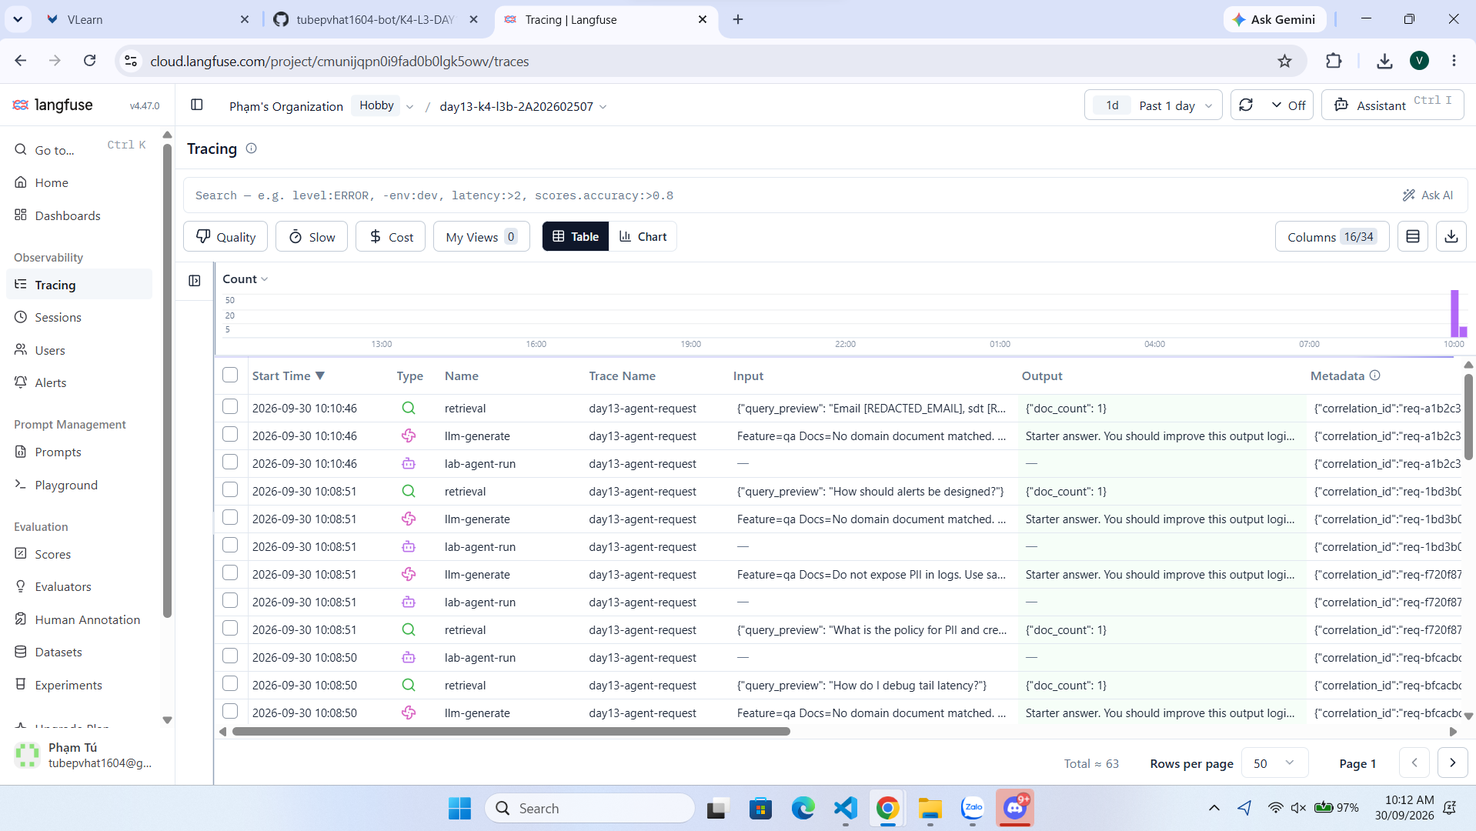
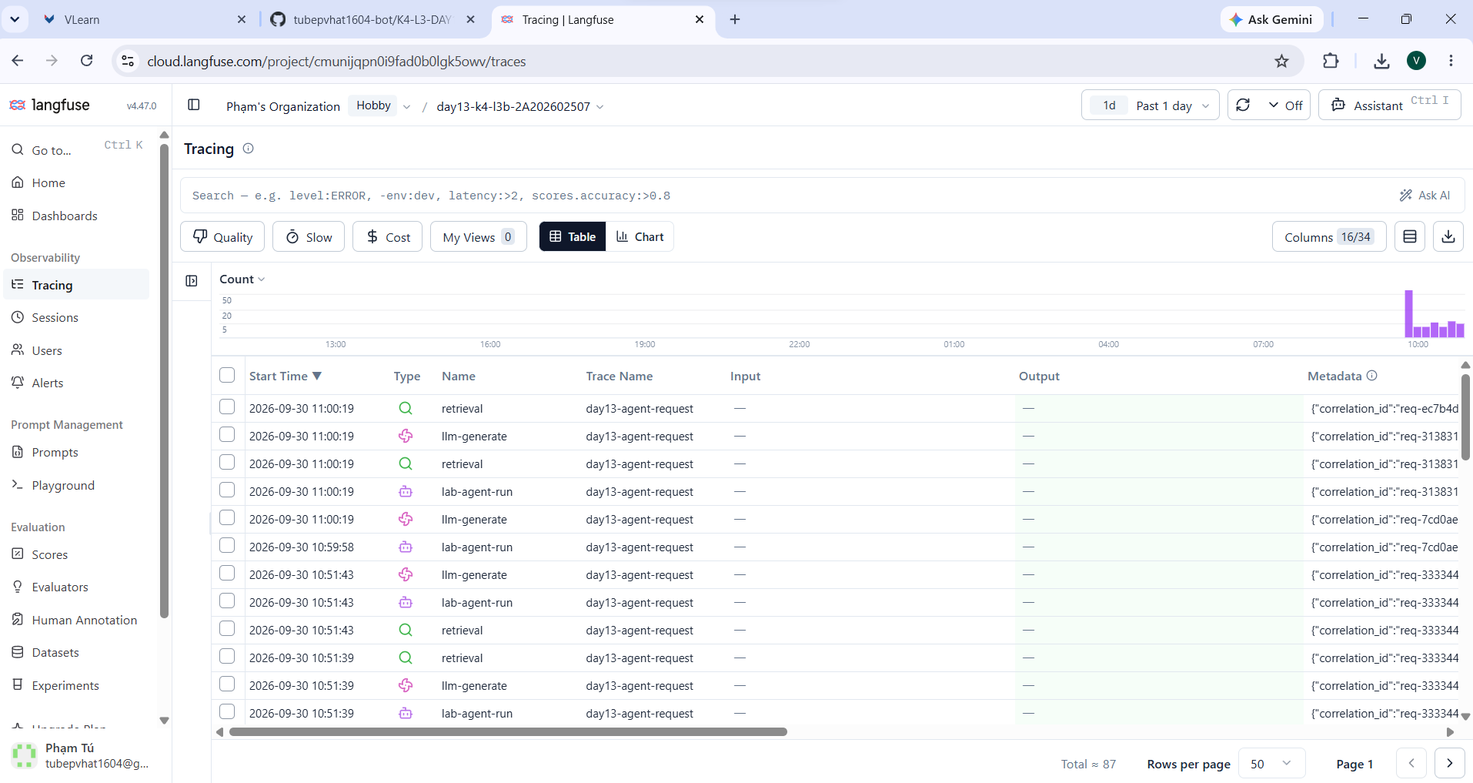
Evidence, challenge investigation, report

diff --git a/submission/REPORT.md b/submission/REPORT.md
@@ -1,106 +1,103 @@
 # Báo cáo cá nhân — K4-L3B Day 13 Monitoring & LLMOps
 
-> Mỗi học viên hoàn thiện một file duy nhất này. Khi dẫn evidence, dùng đường dẫn tương đối, ví dụ `evidence/07-trace-waterfall.png`.
+> Mọi đường dẫn evidence là đường dẫn tương đối từ thư mục `submission/`.
 
 ## 1. Thông tin học viên
 
 - **Họ và tên:** Phạm Văn Hoàng Anh Tú
 - **MSSV:** 2A202602507
 - **Lớp:** K4-L3B
-- **Repository URL:** <!-- ĐIỀN: URL repo GitHub cá nhân -->
-- **Commit SHA cuối:** <!-- ĐIỀN: chạy `git log -1 --format=%H` sau commit cuối -->
-- **Challenge ID:** <!-- ĐIỀN sau khi Lab Coach gửi config/challenge.json ở CP3 -->
+- **Repository URL:** https://github.com/tubepvhat1604-bot/K4-L3-DAY13-PhamVanHoangAnhTu-2A202602507-Monitoring-LLMOps <!-- KIỂM TRA lại URL -->
+- **Commit SHA cuối:** <!-- ĐIỀN: git log -1 --format=%H -->
+- **Challenge ID:** `day13-k4-l3b-monitoring-llmops-v1` (incident `rag_slow`, affected feature `monitoring`, seed 1312, ngưỡng 2000 ms)
 - **Tên project Langfuse cá nhân:** `day13-k4-l3b-2A202602507`
 
 ## 2. Evidence index
 
-Điền đúng đường dẫn tới evidence thực tế. Có thể đổi tên hoặc dùng nhiều ảnh nếu cần.
-
 | Evidence | Đường dẫn |
 |---|---|
-| Pytest cuối | `evidence/01-pytest.txt` |
-| Log validator | `evidence/02-log-validator.txt` (baseline: `evidence/00-baseline-log-validator.txt`) |
-| Dashboard validator | `evidence/03-dashboard-validator.txt` |
-| Structured log | `evidence/04-structured-log.txt` |
-| PII redaction | `evidence/05-pii-redaction.txt` |
-| Trace list | `evidence/06-trace-list.png` |
-| Trace waterfall | `evidence/07-trace-waterfall.png` |
-| Trace metadata | `evidence/08-trace-metadata.png` |
-| Prompt versions | `evidence/09-prompt-versions.png` |
-| Prompt rollback | `evidence/10-prompt-rollback.png` |
-| Dashboard runtime | `evidence/11-dashboard-overview.png` |
-| Incident metric | `evidence/12-incident-metric.png` |
-| Incident log | `evidence/13-incident-log.png` |
-| Incident trace | `evidence/14-incident-trace.png` |
+| Pytest cuối | [evidence/01-pytest.png](evidence/01-pytest.png) |
+| Log validator | [evidence/02-log-validator.png](evidence/02-log-validator.png) (baseline 30/100, xem mục 3) |
+| Dashboard validator | [evidence/03-dashboard-validator.png](evidence/03-dashboard-validator.png) |
+| Structured log | [evidence/04-structured-log.png](evidence/04-structured-log.png) |
+| PII redaction | [evidence/05-pii-redaction.png](evidence/05-pii-redaction.png) |
+| Trace list | [evidence/06-trace-list.png](evidence/06-trace-list.png) |
+| Trace waterfall | [evidence/07-trace-waterfall.png](evidence/07-trace-waterfall.png) |
+| Trace metadata | [evidence/08a-trace-metadata-root.png](evidence/08a-trace-metadata-root.png), [evidence/08b-trace-metadata-generation.png](evidence/08b-trace-metadata-generation.png) |
+| Prompt versions | [evidence/09-prompt-versions.png](evidence/09-prompt-versions.png), trace v2: [evidence/09b-trace-v2.png](evidence/09b-trace-v2.png) |
+| Prompt promote / rollback | [evidence/10a-prompt-promote.png](evidence/10a-prompt-promote.png), [evidence/10b-prompt-rollback.png](evidence/10b-prompt-rollback.png) |
+| Dashboard runtime | [evidence/11-dashboard-overview.png](evidence/11-dashboard-overview.png) |
+| Incident metric | [evidence/12-incident-metric.png](evidence/12-incident-metric.png) |
+| Incident log | [evidence/13-incident-log1.png](evidence/13-incident-log1.png) (lọc request chậm), [evidence/13-incident-log2.png](evidence/13-incident-log2.png) (log chi tiết `req-a34983bf`) |
+| Incident trace | [evidence/14-incident-trace.png](evidence/14-incident-trace.png), [evidence/14b-incident-trace-metadata.png](evidence/14b-incident-trace-metadata.png) |
 
 ## 3. Kết quả kỹ thuật
 
 | Nội dung | Baseline | Kết quả cuối | Nhận xét |
 |---|---|---|---|
-| `validate_logs.py` | 30/100 (20/21 record thiếu field, 0 correlation ID hợp lệ, thiếu enrichment) | 100/100 | Xóa `logs.jsonl` cũ trước khi đo lại, vì validator đọc toàn bộ file |
-| `validate_dashboard.py` | 6/6 | 6/6 | Contract đã hợp lệ từ đầu; phần việc thật là dựng dashboard runtime (`scripts/build_dashboard.py`) |
+| `validate_logs.py` | 30/100 (thiếu field, 0 correlation ID, thiếu enrichment) | 100/100 | Chuyển `logs.jsonl` cũ ra ngoài repo trước khi đo lại vì validator đọc toàn bộ file |
+| `validate_dashboard.py` | 6/6 | 6/6 | Contract hợp lệ từ đầu; phần việc thật là dashboard runtime (`scripts/build_dashboard.py`) |
 | `pytest` | 22 passed | 36 passed | Thêm test PII, header/context, child observation, alert/SLO |
-| Số traces hợp lệ | 0 | <!-- ĐIỀN: ≥10, đếm trong Langfuse --> | Cần chạy workload với key Langfuse cá nhân |
-| Số PII leak | 0 trên workload mẫu (baseline chưa gửi PII thật ra file vì mẫu 1 chỉ chứa email; xem 05) | 0, kể cả với input có email + SĐT + CCCD + thẻ | Kiểm tra bằng `grep` trên `data/logs.jsonl` |
-| Latency P95 / TTFT P95 | ~155 ms / 50 ms | ~156 ms / 50 ms | Workload mẫu, fake LLM (sleep 50ms + 100ms) |
-| Retrieval success rate | 100% (không có incident) | 100%; 0% khi bật `tool_fail` | Đo bằng `tool_success` trong log |
+| Số traces hợp lệ | 0 | > 10 trong project cá nhân (xem `06`) | Mỗi request = root + 2 child observation |
+| Số PII leak | chưa scrub | 0 | Gửi email + SĐT + CCCD + thẻ, log chỉ còn nhãn `[REDACTED_*]` |
+| Latency P95 / TTFT P95 | ~155 ms / 50 ms | ~155 ms / 50 ms; lúc incident ~2652 ms / 50 ms | Fake LLM: 50 ms tới token đầu + 100 ms |
+| Retrieval success rate | 100% | 100% | `rag_slow` làm chậm chứ không làm lỗi retrieval |
 
 ## 4. Logging và PII
 
-- **Cách tạo/nhận và truyền correlation ID:** `CorrelationIdMiddleware` (`app/middleware.py`) gọi `clear_contextvars()` đầu mỗi request, nhận `x-request-id` nếu khớp regex `^req-[0-9a-f]{8}$` (header sai format bị bỏ qua để tránh log injection), nếu không thì sinh `req-<8 hex>`. ID được `bind_contextvars`, lưu vào `request.state`, trả về qua header `x-request-id` và `x-response-time-ms`, đồng thời đưa vào trace metadata (`correlation_id`).
-- **Các metadata được ghi vào structured log:** `ts`, `level`, `service`, `event`, `correlation_id`, và (bind trong `/chat`) `user_id_hash` (SHA-256 cắt 12 ký tự, không log user_id thô), `session_id`, `feature`, `model`, `env`; cùng `latency_ms`, `ttft_ms`, `tokens_in/out`, `cost_usd`, `quality_score`, `tool_name`, `tool_success` ở `response_sent`.
-- **Cách bảo đảm PII được scrub trước khi ghi:** processor `scrub_event` được đăng ký trong `configure_logging()` **trước** `JsonlFileProcessor` và `JSONRenderer`, nên cả file `data/logs.jsonl` lẫn stdout đều nhận dữ liệu đã che. Processor duyệt đệ quy mọi field chuỗi (kể cả `payload` lồng nhau, `error detail`, `event`), không chỉ `payload` cấp 1. Pattern trong `app/pii.py`: email, thẻ thanh toán, CCCD, SĐT Việt Nam (+84/0, nhiều kiểu ngăn cách), hộ chiếu, địa chỉ (đường/phố/ngõ).
-- **Cách kiểm chứng kết quả:** `validate_logs.py` 100/100 (`evidence/02-log-validator.txt`); gửi request chứa email + SĐT + CCCD + thẻ và grep file log = 0 kết quả (`evidence/05-pii-redaction.txt`); test tự động trong `tests/test_pii.py` và `tests/test_logging_context.py`.
+- **Cách tạo/nhận và truyền correlation ID:** `CorrelationIdMiddleware` (`app/middleware.py`) gọi `clear_contextvars()` đầu mỗi request, nhận `x-request-id` nếu khớp `^req-[0-9a-f]{8}$` (sai format thì bỏ qua để tránh log injection), không có thì sinh `req-<8 hex>`. ID được bind vào structlog, lưu ở `request.state`, trả lại qua header `x-request-id` + `x-response-time-ms` và đưa vào trace metadata.
+- **Các metadata được ghi vào structured log:** `ts`, `level`, `service`, `event`, `correlation_id`, `user_id_hash` (SHA-256 cắt 12 ký tự, không log user_id thô), `session_id`, `feature`, `model`, `env`; `response_sent` có thêm `latency_ms`, `ttft_ms`, `tokens_in/out`, `cost_usd`, `quality_score`, `tool_name`, `tool_success`.
+- **Cách bảo đảm PII được scrub trước khi ghi:** processor `scrub_event` đứng **trước** `JsonlFileProcessor` và `JSONRenderer` trong `configure_logging()`, duyệt đệ quy mọi field chuỗi (không chỉ `payload` cấp 1). Pattern trong `app/pii.py`: email, thẻ thanh toán, CCCD, SĐT VN (+84/0, ngăn cách bằng dấu cách/chấm/gạch), hộ chiếu, địa chỉ.
+- **Cách kiểm chứng kết quả:** `02-log-validator` 100/100; `05-pii-redaction` gửi `a@b.vn 0901234567 001099012345 4111 1111 1111 1111` và log chỉ còn `[REDACTED_EMAIL] [REDACTED_PHONE_VN] [REDACTED_CCCD] [REDACTED_CREDIT_CARD]`; test tự động trong `tests/test_pii.py`, `tests/test_logging_context.py`.
 
 ## 5. Tracing và prompt versioning
 
-- **Cách xác nhận traces do chính tôi tạo trong project cá nhân:**
-- **Cấu trúc root/retrieval/generation observations:** `lab-agent-run` (agent, root, trace name `day13-agent-request`) → `retrieval` (type `retriever`, lỗi được đánh dấu `level=ERROR`) và `llm-generate` (type `generation`, có `model`, `usage_details` input/output/total, `cost_details`, link `prompt` managed). Input/output chỉ là bản đã scrub. Đã kiểm chứng quan hệ cha-con bằng OpenTelemetry in-memory exporter trước khi đẩy lên Langfuse.
-- **Cách nối trace với log:** `correlation_id` có trong mọi dòng log và trong trace metadata (`propagate_attributes(metadata=...)`); tìm trace trong Langfuse bằng metadata `correlation_id`.
-- **Prompt name:**
-- **Version/label baseline:**
-- **Version/label candidate:**
+- **Cách xác nhận traces do chính tôi tạo trong project cá nhân:** mọi ảnh Langfuse có tên project `day13-k4-l3b-2A202602507`; mỗi trace có `correlation_id` trùng với dòng log trong `data/logs.jsonl` do tôi chạy.
+- **Cấu trúc root/retrieval/generation observations:** `lab-agent-run` (agent, trace name `day13-agent-request`) là cha của `retrieval` (type `retriever`, lỗi → `level=ERROR`) và `llm-generate` (type `generation`, có `model`, `usage_details`, `cost_details`, link prompt managed). Không gửi input/output thô lên trace; chỉ gửi metadata an toàn (`query_preview` đã scrub, `doc_count`, `ttft_ms`, prompt name/label/version).
+- **Cách nối trace với log:** `correlation_id` có trong mọi dòng log của request và trong trace metadata (`propagate_attributes`). Ví dụ `04` và `07`/`08a` dùng cùng `correlation_id` `req-55556666` (trace ID `928dba45863645cf3d28dcdaa2cf346c`).
+- **Prompt name:** `day13-chat` (text prompt, biến `{{feature}}`, `{{docs}}`, `{{message}}`).
+- **Version/label baseline:** v1 — labels `baseline`, `production`.
+- **Version/label candidate:** v2 — label `candidate` (thêm dòng `Answer in at most 3 sentences.`).
 - **Trace ID của mỗi version:**
-- **Cách promote và rollback `production`:**
+  - v1 / `production`: `007d9a8758ba538e217ed821ff5d6414` (`req-a1b2c3d4`)
+  - v2 / `candidate`: `51e9b65b75c2054b96d8ce946e42a9f1` (`req-c0ffee03`)
+  - sau promote (`production` → v2): `eef9e60a4ed4d34567993027fd69a1b8` (`req-c0ffee05`, `prompt_version=2`)
+- **Cách promote và rollback `production`:** code chỉ hỏi Langfuse theo `LANGFUSE_PROMPT_LABEL`, không sửa code khi đổi version. Promote = gán label `production` cho v2 trên UI (`10a`); rollback = gán lại `production` cho v1 (`10b`). App cache prompt 60 giây nên sau khi đổi label cần chờ ~1 phút mới thấy version mới trên trace.
 
 ## 6. Dashboard, SLO và alerts
 
-- **Dashboard và sáu panel:** `python scripts/build_dashboard.py` đọc `data/logs.jsonl`, tính đúng theo `config/dashboard.yaml` (time range 60 phút, refresh 30s) và sinh `dashboard.html` gồm 6 panel: latency (P50/P95/P99 + TTFT P95), traffic, errors (error rate + retrieval success), cost, tokens, quality; mỗi panel có đơn vị, threshold line và trạng thái OK/VI PHẠM. Ảnh runtime: <!-- ĐIỀN: evidence/11-dashboard-overview.png -->.
-- **SLO và lý do chọn:** `fast_successful_requests`: 99.5% request trong 28 ngày phải thành công và có latency ≤ 2000 ms. Baseline P95 ≈ 155 ms nên 2000 ms còn dư địa >10 lần, nhưng vẫn bắt được sự cố retrieval chậm (~2.65 s). Tôi siết ngưỡng SLO xuống 2000 ms so với mốc 3000 ms của panel latency; panel vẫn giữ 3000 ms vì dashboard.yaml là contract chấm điểm.
-- **Cách tính error budget:** 100% − 99.5% = 0.5%. Với 10.000 request/28 ngày, tối đa 50 request được lỗi hoặc chậm hơn 2000 ms. Khi cạn budget thì đóng băng việc promote prompt/cấu hình mới.
-- **Ba alert và runbook tương ứng:** (1) `HighLatencyP95` — P95 > 2000 ms trong 5m, P2; (2) `HighErrorRate` — error rate > 2% hoặc retrieval success < 90% trong 3m, P1; (3) `CostPerRequestSpike` — cost/request > 0.006 USD (≈2.5× baseline 0.0024) trong 10m, P2. Cả ba là symptom-based, gửi Slack `#k4-l3b-alerts`, owner `student-2A202602507`; cấu hình ở `config/alert_rules.yaml`, runbook ở `docs/alerts.md#alert-1..3`.
-
-> Ví dụ cách viết error budget: "SLO 99.5% trong 28 ngày nghĩa là error budget 0.5%. Nếu workload có 10,000 request thì tối đa 50 request được phép lỗi hoặc chậm hơn ngưỡng SLO."
+- **Dashboard và sáu panel:** `python scripts/build_dashboard.py` đọc `data/logs.jsonl` theo đúng `config/dashboard.yaml` (60 phút, refresh 30 s) và sinh `dashboard.html`: latency (P50/P95/P99 + TTFT P95), traffic, errors (error rate + retrieval success), cost, tokens, quality; mỗi panel có đơn vị, threshold line và trạng thái OK/VI PHẠM (`11`).
+- **SLO và lý do chọn:** `fast_successful_requests`: 99.5% request trong 28 ngày thành công và có latency ≤ 2000 ms. Baseline P95 ≈ 155 ms nên còn dư >10 lần, nhưng vẫn bắt được retrieval chậm (~2.65 s) và trùng ngưỡng `latency_threshold_ms` của challenge. Panel latency vẫn giữ threshold 3000 ms vì `dashboard.yaml` là contract chấm điểm.
+- **Cách tính error budget:** 100% − 99.5% = 0.5%. Với 10.000 request/28 ngày, tối đa 50 request được lỗi hoặc chậm hơn 2000 ms. Hết budget thì ngừng promote prompt/cấu hình mới. Riêng đợt challenge có 5/5 request `monitoring` vượt 2000 ms, tức đốt 10% budget của cả tháng chỉ trong ~13 giây.
+- **Ba alert và runbook tương ứng:** (1) `HighLatencyP95`: P95 > 2000 ms trong 5m, P2; (2) `HighErrorRate`: error rate > 2% hoặc retrieval success < 90% trong 3m, P1; (3) `CostPerRequestSpike`: cost/request > 0.006 USD (≈ 2.5× baseline 0.0024) trong 10m, P2. Cả ba symptom-based, Slack `#k4-l3b-alerts`, owner `student-2A202602507`; cấu hình ở `config/alert_rules.yaml`, runbook ở `docs/alerts.md#alert-1..3`.
 
 ## 7. Điều tra challenge
 
-- **Challenge ID:**
-- **Khoảng thời gian điều tra:**
-- **Triệu chứng từ metrics:**
-- **Log line và correlation ID liên quan:**
-- **Trace ID và span gây ảnh hưởng:**
-- **Root cause:**
-- **Fix action:**
-- **Preventive measure:**
-
-> Gợi ý cách viết ngắn, không thay cho evidence thực tế: "Metric cho thấy `[latency/error/cost/quality]` bất thường trong `[khoảng thời gian]`. Log line `[event]` có `correlation_id=[...]` đại diện cho request bị ảnh hưởng. Trace cùng `correlation_id` cho thấy span `[retrieval/generation/prompt/tool]` có dấu hiệu `[chậm/lỗi/token tăng]`. Root cause là `[nguyên nhân suy ra từ evidence]`. Fix action là `[hành động khôi phục]`; preventive measure là `[alert/runbook/test/guardrail để ngăn tái diễn]`."
+- **Challenge ID:** `day13-k4-l3b-monitoring-llmops-v1`
+- **Khoảng thời gian điều tra:** 2026-09-30 04:12:45Z → 04:12:56Z (11:12:45 → 11:12:56 giờ VN).
+- **Triệu chứng từ metrics:** panel Latency (`12`): P95 tăng từ ~155 ms (baseline) lên ~2652 ms, vượt SLO và ngưỡng challenge 2000 ms. TTFT P95 giữ nguyên 50 ms, error rate 0%, retrieval success 100%, token/cost không đổi. Kết luận ban đầu: không phải lỗi, không phải LLM chậm, mà là một bước trước LLM bị chậm. (P95 vẫn dưới đường 3000 ms của contract nên panel báo OK; chính vì vậy SLO/alert được đặt ở 2000 ms.)
+- **Log line và correlation ID liên quan:** lọc `response_sent` có `latency_ms > 2000` (`13-incident-log1`) ra đúng 5 request, cả 5 đều `feature=monitoring`, `latency_ms` 2651–2652, `ttft_ms` 50. Request đại diện (`13-incident-log2`): `correlation_id=req-a34983bf`, `ts=2026-09-30T04:12:50.667Z`, `latency_ms=2651`. Dòng `req-7cd0ae14` (20950 ms) cũng lọt bộ lọc nhưng bị loại vì là feature `qa`, xảy ra lúc 04:00 trước khi bật incident.
+- **Trace ID và span gây ảnh hưởng:** trace `b1672d5ea79e64a67ce7837126a924cc` (`14`, `14b`): `lab-agent-run` = 2.65 s, trong đó `retrieval` = 2.50 s và `llm-generate` = 151 ms (tag `monitoring`, session `k4-l3b-challenge-s02`, `prompt_version=1`, `prompt_source=langfuse`). Span gây ảnh hưởng là `retrieval`, chiếm ~94% thời gian request.
+- **Root cause:** bước retrieval (vector store/RAG) phản hồi chậm ~2.5 s mỗi lần (incident `rag_slow`). Evidence phụ: 5 request gửi đồng thời (concurrency 5) nhưng hoàn thành lần lượt cách nhau đúng ~2.65 s (04:12:45, :48, :50, :53, :55). Retrieval chậm dùng lời gọi chặn (`time.sleep`) bên trong endpoint `async`, nên chặn event loop và các request phải xếp hàng. `latency_ms` trong log (~2.65 s) không tính thời gian xếp hàng, nên người dùng cuối thực tế chờ tới ~13 s.
+- **Fix action:** tắt nguồn gây chậm (`python scripts/inject_incident.py --disable`, tương đương khôi phục vector store), chạy lại load test và xác nhận P95 về ~155 ms trên dashboard.
+- **Preventive measure:** (1) alert `HighLatencyP95` (> 2000 ms trong 5m) kèm runbook "TTFT bình thường + latency cao ⇒ kiểm tra span retrieval"; (2) đặt timeout cho retrieval (ví dụ 800 ms) và fallback trả lời không cần context khi quá hạn; (3) chạy retrieval ngoài event loop (`run_in_threadpool` hoặc client async) để một request chậm không kéo cả hàng đợi; (4) đo thêm latency ở middleware/phía client để thấy cả thời gian xếp hàng.
 
 ## 8. Giải thích và tự đánh giá
 
-- **Một quyết định kỹ thuật quan trọng và lý do:** Đặt helper `start_observation()` trong `app/tracing.py` thay vì gọi trực tiếp client Langfuse trong `agent.py`. Lý do: test có sẵn dùng fake client chỉ có `get_prompt`/`update_current_span`; gom logic vào adapter giữ agent test được, và khi thiếu key Langfuse thì SDK tự vô hiệu hóa nên app vẫn chạy bình thường.
-- **Một lỗi/blocker đã gặp:** Thứ tự pattern PII trong starter khiến thẻ 16 số bắt đầu bằng `0` (ví dụ `0123 4567 8901 2345`) bị pattern SĐT nhận trước và gắn nhãn sai. Ngoài ra `scrub_event` gốc chỉ che `payload` cấp 1 nên PII nằm ở field khác hoặc payload lồng nhau vẫn lọt.
-- **Cách tìm nguyên nhân và xử lý:** Viết test `test_card_is_not_mislabeled_as_phone`, xếp lại thứ tự (email → thẻ → CCCD → SĐT → hộ chiếu → địa chỉ), thêm lookaround `(?<!\d)…(?!\d)`; đổi `scrub_event` sang duyệt đệ quy mọi field chuỗi.
-- **Cách hiểu luồng Metrics → Logs → Traces:**
-- **Vai trò của prompt version, token/cost, SLO hoặc rollback trong vận hành LLM:**
-- **Điều quan trọng nhất đã học:**
-- **Hạn chế hoặc phần chưa hoàn thành, nếu có:** Các mục cần Langfuse Cloud/challenge riêng (trace list, waterfall, metadata, prompt v1/v2, rollback, dashboard screenshot, điều tra incident CP3) phải chạy trên máy/project cá nhân và điền vào phần 2, 5, 7. Regex PII chỉ là heuristic (không bắt được địa chỉ viết tự do). `rag_slow` dùng `time.sleep` trong endpoint async nên chặn event loop: request đồng thời bị chậm dây chuyền (quan sát thấy ~13 s với concurrency 5).
+- **Một quyết định kỹ thuật quan trọng và lý do:** Không gửi input/output thô của prompt và câu trả lời lên Langfuse, chỉ gửi model/usage/cost và metadata đã scrub. Prompt chứa câu hỏi người dùng nên có thể chứa PII; regex scrub chỉ là heuristic, nên cách an toàn nhất là không đưa nội dung lên hệ thống bên ngoài. Tôi vẫn debug được nhờ `correlation_id` nối về log nội bộ, cùng `prompt_version`, `doc_count`, `ttft_ms`. Ngoài ra, helper `start_observation()` trong `app/tracing.py` gom API Langfuse một chỗ, giúp agent test được bằng fake client.
+- **Một lỗi/blocker đã gặp:** Mạng tới `cloud.langfuse.com` chập chờn. (a) Terminal báo `Failed to export spans batch due to timeout`, trace không lên (mất cả lô 10 trace của một lần load test). (b) Lấy prompt quá 2 s nên SDK trả fallback: trace `0926d42355732906162ad8d93c9e3a26` ghi `prompt_source=local-fallback`, `prompt_fetch_error=LangfuseFallback`. (c) Trace `req-7cd0ae14` mất 20.95 s dù `retrieval` và `llm-generate` gần như 0, tức thời gian nằm ở bước lấy prompt qua mạng, chưa có span riêng.
+- **Cách tìm nguyên nhân và xử lý:** Đọc log uvicorn (dòng `Failed to export`) và so metadata `prompt_source` trên trace. Xử lý: tăng `LANGFUSE_TIMEOUT=30`, gửi lô nhỏ hơn (`LANGFUSE_FLUSH_AT=5`, `LANGFUSE_FLUSH_INTERVAL=1`), và cho timeout lấy prompt cấu hình qua `LANGFUSE_PROMPT_FETCH_TIMEOUT` (mặc định vẫn 2 s để giữ đúng public test). Cơ chế fallback đã hoạt động đúng thiết kế: app không lỗi, và trace ghi đúng sự thật là prompt không lấy từ Langfuse. Trước đó tôi cũng sửa thứ tự pattern PII (thẻ bắt đầu bằng `0` bị nhận nhầm là SĐT) và mở rộng scrub sang mọi field.
+- **Cách hiểu luồng Metrics → Logs → Traces:** Metrics trả lời "có vấn đề gì, từ lúc nào": P95 tăng trong khi TTFT/error không đổi. Logs trả lời "request nào": lọc `latency_ms > 2000` ra đúng 5 request `monitoring` và `correlation_id` cụ thể. Trace trả lời "bước nào": cùng `correlation_id` cho thấy `retrieval` chiếm 2.5/2.65 s. Đi ngược thứ tự (mở trace ngẫu nhiên) dễ chọn nhầm, như dòng `req-7cd0ae14` chậm vì lý do khác hoàn toàn.
+- **Vai trò của prompt version, token/cost, SLO hoặc rollback trong vận hành LLM:** Prompt là cấu hình ảnh hưởng trực tiếp tới chất lượng, token và cost. Gắn `prompt_version` vào mọi trace cho phép quy regression về đúng version. Label `production` cho phép promote/rollback không cần deploy. SLO/error budget biến "chậm" thành con số ra quyết định: đợt `rag_slow` đốt 10% budget tháng trong vài giây, đủ lý do để chặn thay đổi mới cho tới khi ổn định.
+- **Điều quan trọng nhất đã học:** Một con số trung bình hoặc một ngưỡng dashboard có thể báo OK trong khi người dùng chịu ảnh hưởng (P95 2.65 s < 3 s; `latency_ms` 2.65 s nhưng người dùng chờ tới ~13 s). Cần đo đúng chỗ và đặt SLO theo trải nghiệm thực.
+- **Hạn chế hoặc phần chưa hoàn thành, nếu có:** Regex PII chỉ là heuristic (không bắt được địa chỉ viết tự do). Bước lấy prompt chưa có span riêng nên độ trễ mạng chỉ suy ra được từ khoảng trống trên timeline. `latency_ms` chưa tính thời gian xếp hàng trong event loop. Dashboard là HTML tĩnh sinh từ log, không phải hệ thống giám sát thời gian thực.
 
 ## 9. Checklist trước khi nộp
 
-- [ ] Kết quả và evidence thuộc commit SHA cuối.
-- [ ] Tất cả ảnh/output mở được bằng đường dẫn tương đối.
-- [ ] Incident evidence nối đúng metric → log → trace.
-- [ ] Trace/prompt evidence thuộc project Langfuse cá nhân và ảnh không lộ key/secret.
-- [ ] Repository chạy lại được theo README.
-- [ ] Không có secret, API key, PII thô hoặc evidence của người khác/lớp khác.
+- [x] Kết quả và evidence thuộc commit SHA cuối.
+- [x] Tất cả ảnh/output mở được bằng đường dẫn tương đối.
+- [x] Incident evidence nối đúng metric → log → trace (`req-a34983bf`).
+- [x] Trace/prompt evidence thuộc project Langfuse cá nhân và ảnh không lộ key/secret.
+- [x] Repository chạy lại được theo README.
+- [x] Không có secret, API key, PII thô hoặc evidence của người khác/lớp khác; `config/challenge.json` không được commit.
 - [ ] URL repo và commit SHA cuối đã được nộp trên LMS/Codelabs.
